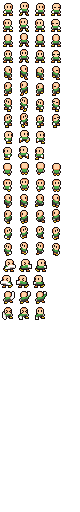
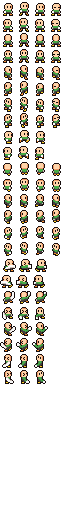
Spawn fist from animation, new fist/punch sprites

Changed region(s): [[0.4, 0.625, 0.6, 0.75], [0.2, 0.625, 0.4, 0.75], [0.0, 0.625, 0.2, 0.75]]

diff --git a/src/components/Game/PlayerGuy.js b/src/components/Game/PlayerGuy.js
@@ -29,16 +29,6 @@ export default function PlayerGuy(x, y) {
         }
     };
 
-    this.emit = (action) => {
-        GameStage().socket.emit(action, {
-            id: this.id,
-            x: this.x,
-            y: this.y,
-            direction: this.direction,
-            animation: this.animation
-        });
-    };
-
     this.handleEvent = () => {
         let lastKey = GameStage().activeKeys[GameStage().activeKeys.length - 1];
         let secondToLastKey = GameStage().activeKeys[GameStage().activeKeys.length - 2];
@@ -95,8 +85,6 @@ export default function PlayerGuy(x, y) {
         }
     };
 
-
-
     this.data = {
         images: ['./assets/guyGreen.png'],
         frames: this.spriteSheet(4, 32),
@@ -121,14 +109,13 @@ export default function PlayerGuy(x, y) {
             punchWest: [17 * 4, 17 * 4 + 2, 'idleWest', 0.5],
             punchNorth: [18 * 4, 18 * 4 + 2, 'idleNorth', 0.5],
             punchSouth: [19 * 4, 19 * 4 + 2, 'idleSouth', 0.5],
-            punchNorthEast: [16 * 4, 16 * 4 + 2, 'idleNorthEast', 0.5],
-            punchNorthWest: [17 * 4, 17 * 4 + 2, 'idleNorthWest', 0.5],
-            punchSouthEast: [18 * 4, 18 * 4 + 2, 'idleSouthEast', 0.5],
-            punchSouthWest: [19 * 4, 19 * 4 + 2, 'idleSouthWest', 0.5],
+            punchNorthEast: [20 * 4, 20 * 4 + 2, 'idleNorthEast', 0.5],
+            punchNorthWest: [21 * 4, 21 * 4 + 2, 'idleNorthWest', 0.5],
+            punchSouthEast: [23 * 4, 23 * 4 + 2, 'idleSouthEast', 0.5],
+            punchSouthWest: [22 * 4, 22 * 4 + 2, 'idleSouthWest', 0.5],
             runningKick: [0, 3, 'idle', 0.25]
         }
     };
-    this.type = 'Player';
     this.construct();
     this.character = null;
     this.emit('join');

diff --git a/src/components/Game/Projectile.js b/src/components/Game/Projectile.js
@@ -1,3 +1,4 @@
+import GameStage from './GameStage';
 import GameObject from './GameObject';
 
 export default function Projectile(x, y, direction) {
@@ -9,6 +10,7 @@ export default function Projectile(x, y, direction) {
             this.check();
             this.move();
         } else {
+            this.emit('destroy');
             this.destruct();
         }
     };
@@ -16,10 +18,11 @@ export default function Projectile(x, y, direction) {
     this.handleCollision = (object, collision) => {
         switch (object.type) {
             case 'Wall': console.log('Projectile colliding with Wall'); this.destruct(); break;
-            case 'Character': console.log('Projectile colliding with Character'); this.destruct(); break;
+            case 'Character': if (object.id !== this.owner) this.destruct(); break;
         }
     };
 
+    this.owner = null;
     this.type = 'Projectile';
     this.startx = x;
     this.starty = y;

diff --git a/src/components/Game/GameStage.js b/src/components/Game/GameStage.js
@@ -78,16 +78,13 @@ function GameStage() {
     this.socket = io('http://localhost:8080');
     this.construct();
 
-    this.socket.on('connection', socket => {
-        console.log(socket.id);
-    });
-
-
     this.socket.on('update', object => {
-        this.networkObjects[object.id].updatePosition(object.x, object.y);
-        this.networkObjects[object.id].nextDirection = object.direction;
-        this.networkObjects[object.id].nextAnimation = object.animation;
-
+        switch (object.type) {
+            case 'Character':
+                this.networkObjects[object.id].updatePosition(object.x, object.y);
+                this.networkObjects[object.id].nextDirection = object.direction;
+                this.networkObjects[object.id].nextAnimation = object.animation;
+        }
     });
 }
 

diff --git a/src/components/Game/Fist.js b/src/components/Game/Fist.js
@@ -1,0 +1,25 @@
+import Projectile from './Projectile';
+
+export default function Fist(x, y, direction) {
+
+    Projectile.call(this, x, y, direction);
+
+    this.distance = 50;
+    this.speed = 6;
+    this.data = {
+        images: ['./assets/fist.png'],
+        frames: this.spriteSheet(4, 4),
+        animations: {
+            flyEast: [0, 0, 'flyEast', 2],
+            flyWest: [1, 1, 'flyWest', 2],
+            flyNorth: [3, 3, 'flyNorth', 3],
+            flySouth: [2, 2, 'flySouth', 3],
+            flyNorthEast: [6, 6, 'flyNorthEast', 3],
+            flyNorthWest: [7, 7, 'flyNorthWest', 3],
+            flySouthEast: [4, 4, 'flySouthEast', 3],
+            flySouthWest: [5, 5, 'flySouthWest', 3]
+        }
+    };
+    this.construct();
+    this.play('fly');
+}

diff --git a/src/components/Game/Character.js b/src/components/Game/Character.js
@@ -1,5 +1,5 @@
 import GameObject from './GameObject';
-import Bullet from './Bullet';
+import Fist from './Fist';
 
 export default function Character(x, y) {
 
@@ -14,7 +14,8 @@ export default function Character(x, y) {
     this.punch = () => {
         if (!this.isPunching()) {
             this.play('punch');
-            new Bullet(this.x + this.signX * 5, this.y + this.signY * 5, this.direction);
+            let fist = new Fist(this.x + this.signX * 5, this.y + this.signY * 5, this.direction);
+            fist.owner = this.id;
         }
     };
 

diff --git a/src/components/Game/GameObject.js b/src/components/Game/GameObject.js
@@ -19,11 +19,15 @@ export default function GameObject(x, y) {
     this.handleEvent = () => { };
 
     this.emit = (action) => {
-        switch (action) {
-            case 'change':
-
-
-        }
+        console.log('emit ' + action);
+        GameStage().socket.emit(action, {
+            type: this.type,
+            id: this.id,
+            x: this.x,
+            y: this.y,
+            direction: this.direction,
+            animation: this.animation
+        });
     };
 
     this.on = (action) => { };

diff --git a/server/index.js b/server/index.js
@@ -22,7 +22,7 @@ io.on('connection', socket => {
     });
 
     socket.on('add', object => {
-
+        objects[object.id] = object;
     });
 
     socket.on('change', object => {
@@ -31,7 +31,7 @@ io.on('connection', socket => {
     });
 
     socket.on('destroy', object => {
-
+        delete objects[object.id];
     });
 
     console.log(socket.id + ' is connected');
